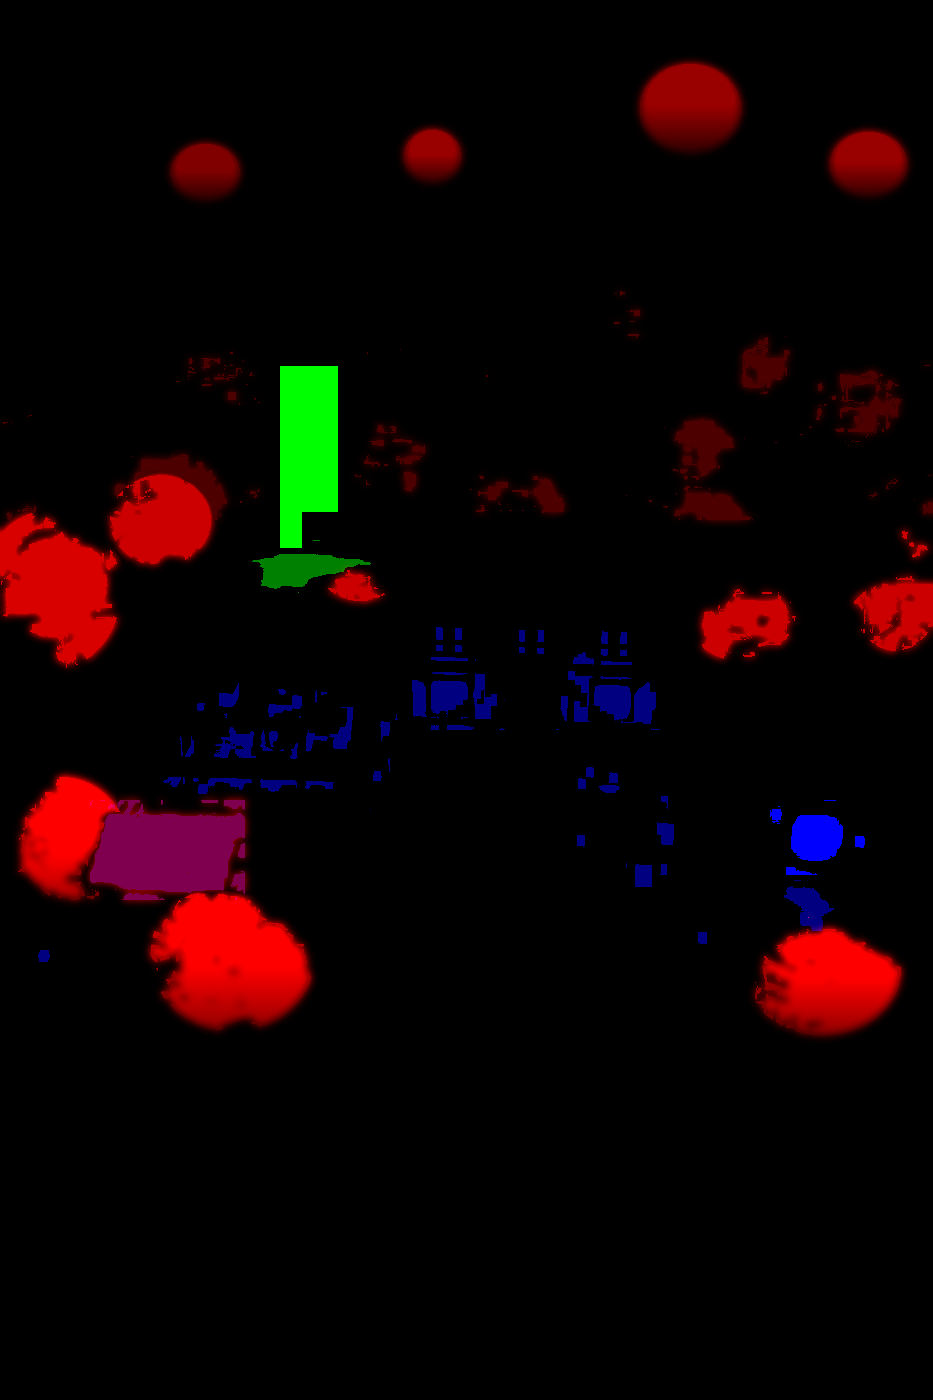
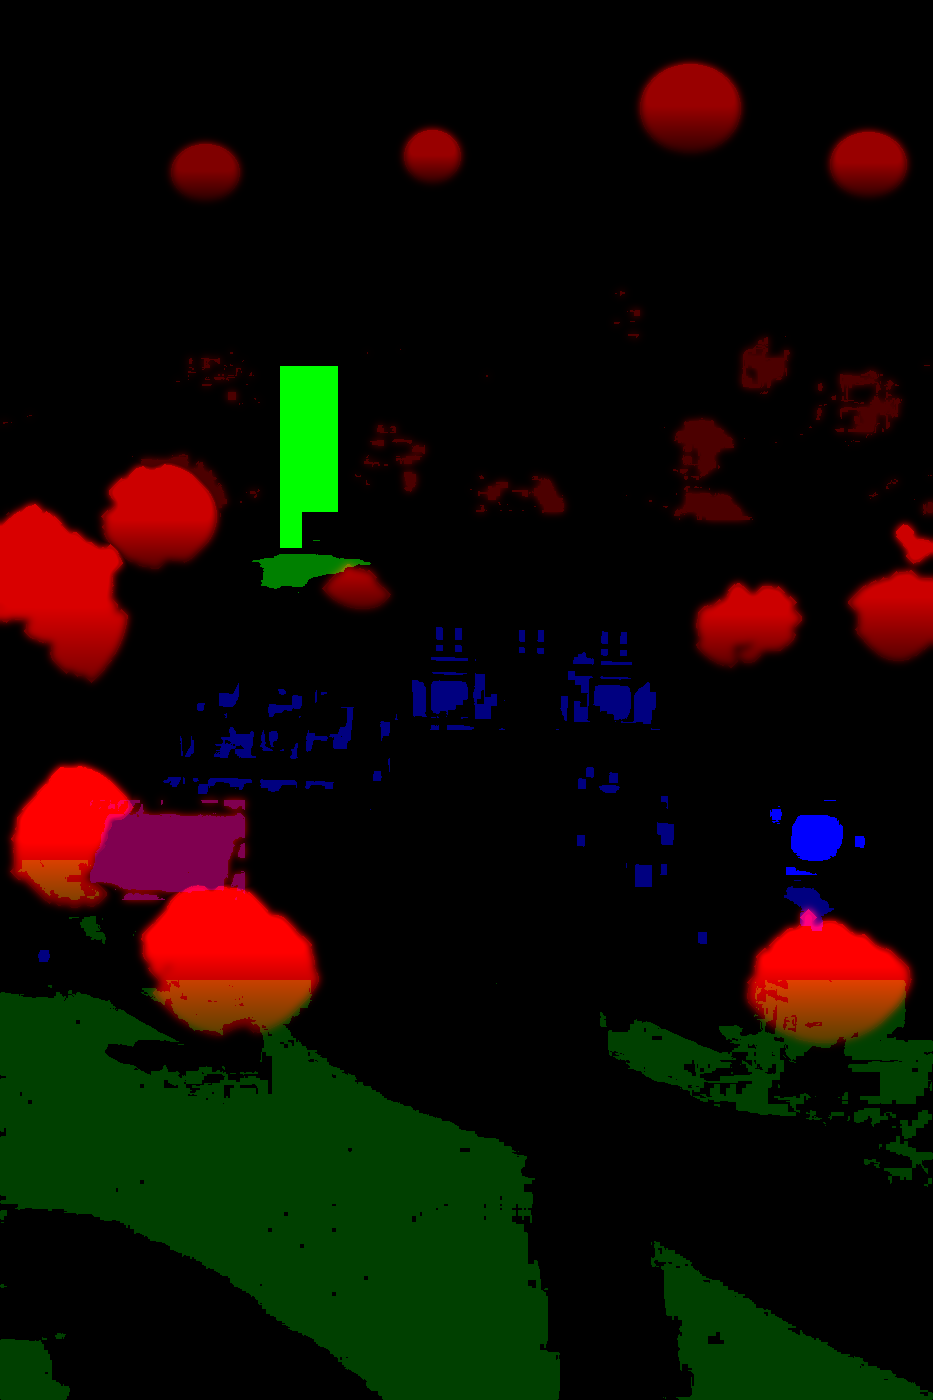
Living village: a real wind (outlines sway via a halo), blowing leaves, grass in gusts, smoke leaning with the wind, birds flying home; per-scene wind in scene_fx.json
Claude-Session: https://claude.ai/code/session_01VWe3SoshPkYxMyQGojiWK8

diff --git a/flutter/lib/features/onboarding/cinematic_player.dart b/flutter/lib/features/onboarding/cinematic_player.dart
@@ -527,7 +527,7 @@ class _CinePainter extends CustomPainter {
         ..setFloat(4, im.width.toDouble())
         ..setFloat(5, im.height.toDouble())
         ..setFloat(6, lv.t % 600.0)
-        ..setFloat(7, 1)
+        ..setFloat(7, fx.wind)
         ..setFloat(8, 0)
         ..setFloat(9, 0)
         ..setImageSampler(0, im)
@@ -695,6 +695,35 @@ class _CinePainter extends CustomPainter {
           final bob = 1 + 0.1 * math.sin(ts * 9 + i);
           c.drawOval(Rect.fromCenter(center: at, width: r * 1.6 * bob, height: r * 1.8), ink);
           c.drawOval(Rect.fromCenter(center: at.translate(0, -r * 1.1), width: r * 0.8, height: r * 1.0), ink);
+        }
+      } else if (kind == 'birds' && plate != null && g != null) {
+        // a few birds flying home across the dusk sky, wings beating, in the plate's own px under the camera
+        final n = ((L['n'] as num?) ?? 4).toInt();
+        final band = (L['y'] as List).cast<num>();
+        final speed = ((L['speed'] as num?) ?? 60).toDouble(); // plate px a second
+        final sz = ((L['size'] as num?) ?? 7).toDouble();
+        final ink = Paint()
+          ..color = const Color(0xFF2B2740).withValues(alpha: 0.85)
+          ..style = PaintingStyle.stroke
+          ..strokeWidth = sz * 0.32 * g.scale
+          ..strokeCap = StrokeCap.round
+          ..strokeJoin = StrokeJoin.round;
+        final pw = plate.width.toDouble();
+        for (var i = 0; i < n; i++) {
+          final r1 = math.sin(i * 12.9898) * 43758.5453, r2 = math.sin(i * 78.233) * 12345.6789;
+          final f1 = r1 - r1.floorToDouble(), f2 = r2 - r2.floorToDouble();
+          // a loose flock: each its own height, lag and pace
+          final x = (f1 * pw * 0.6 + (ts + 14) * speed * (0.85 + 0.3 * f2)) % (pw + 80) - 40;
+          final y = band[0] + (band[1] - band[0]) * f2 + math.sin(ts * 0.9 + i) * 4;
+          final flap = math.sin(ts * (8.5 + 3 * f1) + i * 2.1);
+          final at = Offset((x - g.origin.dx) * g.scale, (y - g.origin.dy) * g.scale);
+          final w = sz * g.scale, up = (0.15 + 0.55 * flap) * sz * g.scale;
+          c.drawPath(
+              Path()
+                ..moveTo(at.dx - w, at.dy - up)
+                ..quadraticBezierTo(at.dx - w * 0.45, at.dy - up * 0.2, at.dx, at.dy)
+                ..quadraticBezierTo(at.dx + w * 0.45, at.dy - up * 0.2, at.dx + w, at.dy - up),
+              ink);
         }
       } else if (kind == 'fade') {
         final k = ((ts - (L['from'] as num).toDouble()) / (L['dur'] as num).toDouble()).clamp(0.0, 1.0);

diff --git a/flutter/lib/features/shared/live_scene.dart b/flutter/lib/features/shared/live_scene.dart
@@ -20,11 +20,14 @@ import 'package:flutter/services.dart';
 
 /// One scene's effects: its mask and its emitters, from assets/config/scene_fx.json.
 class SceneFx {
-  SceneFx._(this.mask, this.width, this.height, this.emitters);
+  SceneFx._(this.mask, this.width, this.height, this.emitters, [this.wind = 1]);
   final String mask;
   final double width;
   final double height;
   final List<FxEmitter> emitters;
+
+  /// how hard the wind blows on this picture (1 = a breezy day): more for a picture seen small
+  final double wind;
 
   static final Map<String, SceneFx> _all = {};
   static Future<ui.FragmentProgram?>? _program;
@@ -45,6 +48,7 @@ class SceneFx {
           (m['w'] as num).toDouble(),
           (m['h'] as num).toDouble(),
           [for (var i = 0; i < list.length; i++) FxEmitter.fromJson(list[i] as Map<String, dynamic>, i)],
+          ((m['wind'] as num?) ?? 1).toDouble(),
         );
       });
     } catch (e) {

diff --git a/tools/art/fx_zones/cine.py b/tools/art/fx_zones/cine.py
@@ -5,6 +5,9 @@ plate with zones through the same shader as the game's scenes (cinematic_player.
 # left of the Lodge into its pool, the Lodge (top centre), the Glasshouse (left), Bram's workshop (right), the
 # market awning, the Waystone, the path down to the gate
 VILLAGE_DUSK = [
+    # a breeze over the lawns: the grass shimmers in passing gusts
+    ('grass', [0, 980, 933, 1400], 'green'),
+    ('grass', [0, 860, 140, 1000], 'green'),
     # the trees on the far hills: a gentle sway only (the terraces' grass is green too, so keep it small)
     ('tree', [0, 200, 933, 520], 'green', {'amp': 0.3}),
     # the canopies against the sky on the far ridge (hazy blue-grey, so marked by shape), swaying from the top
@@ -12,15 +15,15 @@ VILLAGE_DUSK = [
     ('tree', ('e', 690, 108, 50, 44), 'all', {'amp': 0.6, 'fade': 0.2}),
     ('tree', ('e', 868, 164, 38, 32), 'all', {'amp': 0.6, 'fade': 0.2}),
     ('tree', ('e', 205, 172, 34, 28), 'all', {'amp': 0.5, 'fade': 0.2}),
-    # nearer canopies, swaying properly
-    ('tree', ('e', 50, 590, 70, 80), 'green', {'amp': 0.85}),
-    ('tree', ('e', 160, 520, 50, 45), 'green', {'amp': 0.8}),
-    ('tree', ('e', 360, 560, 45, 40), 'green', {'amp': 0.8}),
-    ('tree', ('e', 740, 610, 55, 50), 'green', {'amp': 0.8}),
-    ('tree', ('e', 895, 590, 45, 60), 'green', {'amp': 0.8}),
-    ('tree', ('e', 60, 845, 68, 68), 'green', {'amp': 1.0, 'fade': 0.35}),
-    ('tree', ('e', 232, 955, 82, 75), 'green', {'amp': 1.0, 'fade': 0.35}),
-    ('tree', ('e', 822, 968, 78, 66), 'green', {'amp': 1.0, 'fade': 0.35}),
+    # nearer canopies: rooted at the trunk, their outlines moving (halo)
+    ('tree', ('e', 50, 600, 72, 92), 'green', {'amp': 0.85, 'fade': 0.3, 'halo': 6}),
+    ('tree', ('e', 158, 516, 52, 46), 'green', {'amp': 0.8, 'fade': 0.3, 'halo': 6}),
+    ('tree', ('e', 362, 560, 46, 42), 'green', {'amp': 0.8, 'fade': 0.3, 'halo': 6}),
+    ('tree', ('e', 742, 610, 56, 52), 'green', {'amp': 0.8, 'fade': 0.3, 'halo': 6}),
+    ('tree', ('e', 898, 592, 46, 62), 'green', {'amp': 0.8, 'fade': 0.3, 'halo': 6}),
+    ('tree', ('e', 64, 842, 70, 70), 'green', {'amp': 1.0, 'fade': 0.25, 'halo': 8}),
+    ('tree', ('e', 232, 952, 84, 76), 'green', {'amp': 1.0, 'fade': 0.25, 'halo': 8}),
+    ('tree', ('e', 824, 966, 80, 68), 'green', {'amp': 1.0, 'fade': 0.25, 'halo': 8}),
     # the waterfall off the cliff, and its pool
     # (at dusk the fall is a dim lilac-grey column, so it is marked by its shape, not its colour)
     ('fall', [280, 366, 338, 512]),
@@ -53,7 +56,7 @@ VILLAGE_DUSK_EMIT = [
     {'t': 'glow', 'x': 262, 'y': 735, 'r': 95, 'c': '#ffd97a', 'kind': 'lamp', 'a': 0.3},
     # Bram's forge through the workshop window, and his chimney
     {'t': 'glow', 'x': 822, 'y': 836, 'r': 58, 'c': '#ffb04a', 'kind': 'fire', 'a': 0.55},
-    {'t': 'smoke', 'x': 826, 'y': 600, 'n': 6, 's': 10, 'h': 170, 'drift': 34, 'c': '#d9d2e6', 'a': 0.4},
+    {'t': 'smoke', 'x': 826, 'y': 600, 'n': 7, 's': 10, 'h': 190, 'drift': 70, 'c': '#d9d2e6', 'a': 0.4},
     # the lanterns along the paths
     *[{'t': 'glow', 'x': x, 'y': y, 'r': r, 'c': '#ffe08a', 'kind': 'lamp', 'a': 0.55}
       for x, y, r in ((580, 780, 14), (612, 778, 14), (640, 860, 16), (700, 936, 14), (808, 896, 14), (818, 926, 12),
@@ -62,8 +65,13 @@ VILLAGE_DUSK_EMIT = [
     {'t': 'smoke', 'x': 306, 'y': 556, 'n': 5, 's': 9, 'h': 40, 'drift': 6, 'c': '#e8eef8', 'a': 0.3, 'kind': 'steam'},
     # fireflies over the village
     {'t': 'motes', 'kind': 'firefly', 'x': 20, 'y': 640, 'w': 900, 'h': 420, 'n': 18, 'c': '#f6ff9a', 's': 4},
+    # leaves off the trees, blowing across on the wind, near and far
+    {'t': 'leaves', 'x': 0, 'y': 780, 'w': 933, 'h': 420, 'n': 9, 'c': ['#6f9a45', '#88b04f', '#a9b95c', '#c49a4a']},
+    {'t': 'leaves', 'x': 0, 'y': 430, 'w': 933, 'h': 260, 'n': 5, 'c': ['#5f8a42', '#7aa04c']},
 ]
 
 SCENES = {
-    'cine/village_dusk.webp': {'fx': VILLAGE_DUSK, 'emit': VILLAGE_DUSK_EMIT},
+    # seen whole on a phone before the camera pushes in, so a stronger wind than the game's scenes: the trees have
+    # to read as moving in a four-second shot
+    'cine/village_dusk.webp': {'fx': VILLAGE_DUSK, 'emit': VILLAGE_DUSK_EMIT, 'wind': 3.4},
 }

diff --git a/tools/art/scene_fx.py b/tools/art/scene_fx.py
@@ -30,12 +30,15 @@ Zones live in tools/art/fx_zones/*.py, one module per area, each with a SCENES d
                 {'t': 'smoke', 'x': 712, 'y': 250, 'n': 6, 's': 14, 'h': 170, 'drift': 40},
             ],
             'also': ['village/square_day_dim.webp'],  # optional: the same zones on other variants
+            'wind': 2.6,  # optional: how hard the wind blows (1 = a breezy day; for a plate seen small, as in
+                          # the cold open's wide shots, more, so the sway still reads)
         },
     }
 
 Effects: tree, blades, grass, cloth, smoke, fall, still, fire, crystal, lamp, and none (clears).
-A 4th element can tune the sway: {'amp': 0.5} (0-1, default per effect) and {'fade': 0.2} (the
-bottom of the shape moves this much of the top: blades and stems are rooted).
+A 4th element can tune the sway: {'amp': 0.5} (0-1, default per effect), {'fade': 0.2} (the
+bottom of the shape moves this much of the top: blades and stems are rooted) and {'halo': 8} (the sway
+reaches that many px past what the key picked, so an outline moves, not only what is inside it).
 Keys: all, green, water, waterfall, fire, warm (lit window glass), white, pale, smoky, crystal,
 bright, cloth.
 
@@ -238,7 +241,12 @@ def bake(rel, spec):
             kind[sel] = b_val
         if amp is not None:
             amp = opts.get('amp', amp)
-            field = sel.astype(np.float32) * amp
+            src = sel
+            if opts.get('halo'):
+                # the sway reaches a few px past the leaves, so the canopy's outline moves too (inside the outline
+                # a voxel canopy's stripes hide a sideways slide)
+                src = ndimage.binary_dilation(sel, iterations=int(opts['halo'])) & visible
+            field = src.astype(np.float32) * amp
             if 'fade' in opts:  # the bottom of the shape moves less (a trunk, a blade's root)
                 ys = np.nonzero(zone.any(axis=1))[0]
                 y0, y1 = ys.min(), ys.max() + 1
@@ -253,7 +261,10 @@ def bake(rel, spec):
     name = rel.replace('/', '__').rsplit('.', 1)[0] + '.webp'
     out = os.path.join(OUT_DIR, name)
     Image.fromarray(mask, 'RGB').save(out, 'WEBP', lossless=True, quality=100, method=6)
-    return {'mask': 'assets/art/fx/' + name, 'w': w, 'h': h, 'emit': spec.get('emit', [])}, img, mask
+    out = {'mask': 'assets/art/fx/' + name, 'w': w, 'h': h, 'emit': spec.get('emit', [])}
+    if 'wind' in spec:
+        out['wind'] = spec['wind']
+    return out, img, mask
 
 
 TINT = {  # preview colours: (channel, value) -> colour

diff --git a/tools/art/onboarding_cine.py b/tools/art/onboarding_cine.py
@@ -20,6 +20,9 @@ black) seen through a camera, with layers drawn over it and a caption:
             steps: footprints pressed into a named trail, walking from 'start' to 'end' (0-1 of its length)
                    between 'from' and 'to' seconds; each lands, flares and cools to an 'ember' (the app's
                    FootTrail; the preview video leaves them out)
+            birds: a few birds flying home across the sky ('y': [top, bottom] of their band in plate px, 'n',
+                   'speed' plate px a second, 'size'); the app's only (the plates themselves live through
+                   tools/art/fx_zones/cine.py)
             walkers: tiny silhouettes travelling the trails, leaving a few fading prints behind them
             flicker: a reveal that stutters before it holds
             fade: a plain fade from black / to black
@@ -69,6 +72,8 @@ SHOTS = [
      'sfx': {'t': 0.9, 'name': 'footstep'}},
     {'id': 'village_push', 'dur': 4.0, 'plate': 'village_dusk', 'xfade': 0.6,
      'camera': {'from': {'cx': 0.5, 'cy': 0.5, 'zoom': 1.0}, 'to': {'cx': 'anchor:glasshouse_window', 'zoom': 2.6}, 'ease': 'in'},
+     # birds flying home over the ridge (the app draws them; the plate itself lives through fx_zones/cine.py)
+     'layers': [{'kind': 'birds', 'n': 5, 'y': [40, 150], 'speed': 55, 'size': 7}],
      'caption': {'text': 'And something here is still glowing.', 'in': 0.4, 'out': 3.4}},
     {'id': 'glasshouse', 'dur': 2.2, 'plate': 'glasshouse_night', 'xfade': 0.8,
      'camera': {'from': {'cx': 'anchor:glasshouse_window', 'zoom': 1.15}, 'to': {'cx': 'anchor:glasshouse_window', 'zoom': 1.35}, 'ease': 'out'},
